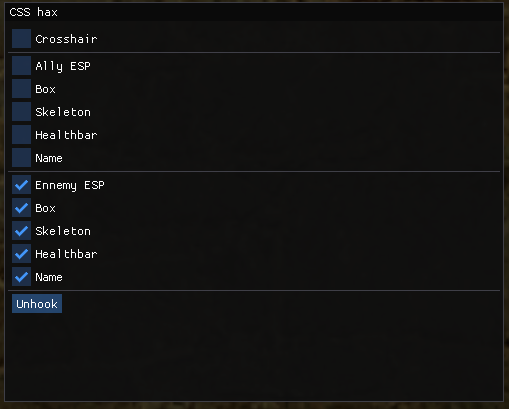
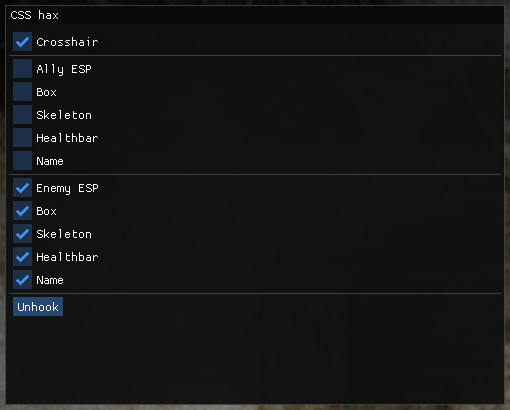
typo

diff --git a/ImGuiExternal/Source.cpp b/ImGuiExternal/Source.cpp
@@ -7,15 +7,15 @@ LPCSTR TargetProcess = "hl2.exe";
 bool ShowMenu = false;
 bool Unhook = false;
 bool ally_esp = false;
-bool ennemy_esp = true;
+bool enemy_esp = true;
 bool ally_box = false;
-bool ennemy_box = true;
+bool enemy_box = true;
 bool ally_skeleton = false;
-bool ennemy_skeleton = true;
+bool enemy_skeleton = true;
 bool ally_esp_health_bar = false;
-bool ennemy_esp_health_bar = true;
+bool enemy_esp_health_bar = true;
 bool ally_name = false;
-bool ennemy_name = true;
+bool enemy_name = true;
 bool crosshair = true;
 bool ImGui_Initialised = false;
 bool CreateConsole = false;
@@ -38,7 +38,7 @@ void Draw() {
 	RGBA Cyan = { 0, 231, 255, 255 };
 	if (crosshair) DrawCircleFilled(Process::WindowWidth/2, Process::WindowHeight/2, 3, &Cyan);
 
-	if (!ally_esp && !ennemy_esp) {
+	if (!ally_esp && !enemy_esp) {
 		return;
 	}
 
@@ -115,19 +115,19 @@ void Draw() {
 		
 
 		RGBA color = { 255, 255, 255, 255 };
-		if ((ent_team == localplayer_team && ally_box) || (ent_team != localplayer_team && ennemy_box)) {
+		if ((ent_team == localplayer_team && ally_box) || (ent_team != localplayer_team && enemy_box)) {
 			DrawEspBox2D(w2s_absOrigin, w2s_headpos, &color, 1);
 		}
 
-		if ((ent_team == localplayer_team && ally_name) || (ent_team != localplayer_team && ennemy_name)) {
+		if ((ent_team == localplayer_team && ally_name) || (ent_team != localplayer_team && enemy_name)) {
 			DrawNameTag(w2s_absOrigin, w2s_headpos, name);
 		}
 
-		if ((ent_team == localplayer_team && ally_esp_health_bar) || (ent_team != localplayer_team && ennemy_esp_health_bar)) {
+		if ((ent_team == localplayer_team && ally_esp_health_bar) || (ent_team != localplayer_team && enemy_esp_health_bar)) {
 			DrawHealthBar(w2s_absOrigin, w2s_headpos, health);
 		}
 
-		if ((ent_team == localplayer_team && ally_skeleton) || (ent_team != localplayer_team && ennemy_skeleton)) {
+		if ((ent_team == localplayer_team && ally_skeleton) || (ent_team != localplayer_team && enemy_skeleton)) {
 			DrawBones(bonematrix_addr, &color, 1);
 		}
 	}
@@ -147,11 +147,11 @@ void DrawMenu() {
 	ImGui::Checkbox("Name##ally", &ally_name);
 
 	ImGui::Separator();
-	ImGui::Checkbox("Ennemy ESP", &ennemy_esp);
-	ImGui::Checkbox("Box##ennemy", &ennemy_box);
-	ImGui::Checkbox("Skeleton##ennemy", &ennemy_skeleton);
-	ImGui::Checkbox("Healthbar##ennemy", &ennemy_esp_health_bar);
-	ImGui::Checkbox("Name##ennemy", &ennemy_name);
+	ImGui::Checkbox("Enemy ESP", &enemy_esp);
+	ImGui::Checkbox("Box##enemy", &enemy_box);
+	ImGui::Checkbox("Skeleton##enemy", &enemy_skeleton);
+	ImGui::Checkbox("Healthbar##enemy", &enemy_esp_health_bar);
+	ImGui::Checkbox("Name##enemy", &enemy_name);
 
 	ImGui::Separator();
 	if (ImGui::Button("Unhook")) {

diff --git a/README.md b/README.md
@@ -6,7 +6,7 @@ Also i only use RPM so i don't write anything to the game, i still open a handle
 The code isn't very good nor optimized but at least i have the good offsets.<br>
 
 # Features
-* Ally/Ennemy ESP
+* Ally/Enemy ESP
 * Skeleton ESP
 * Box ESP
 * Healthbar
